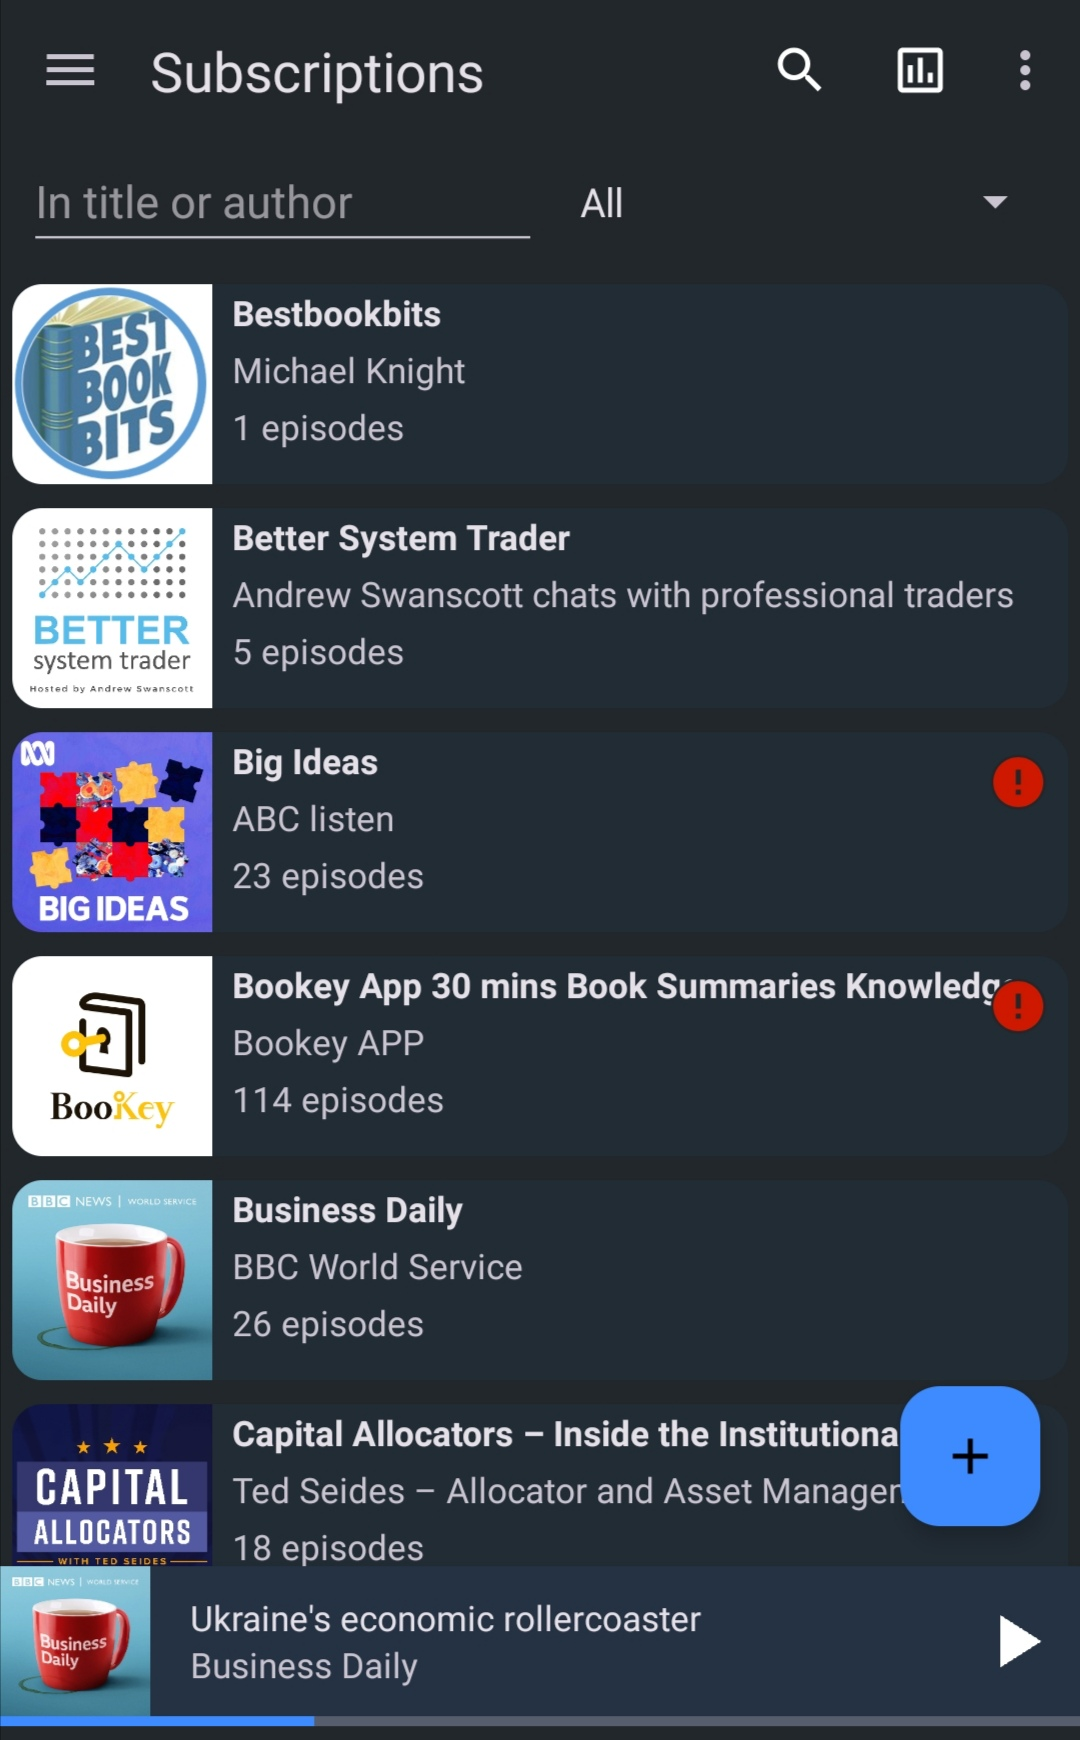
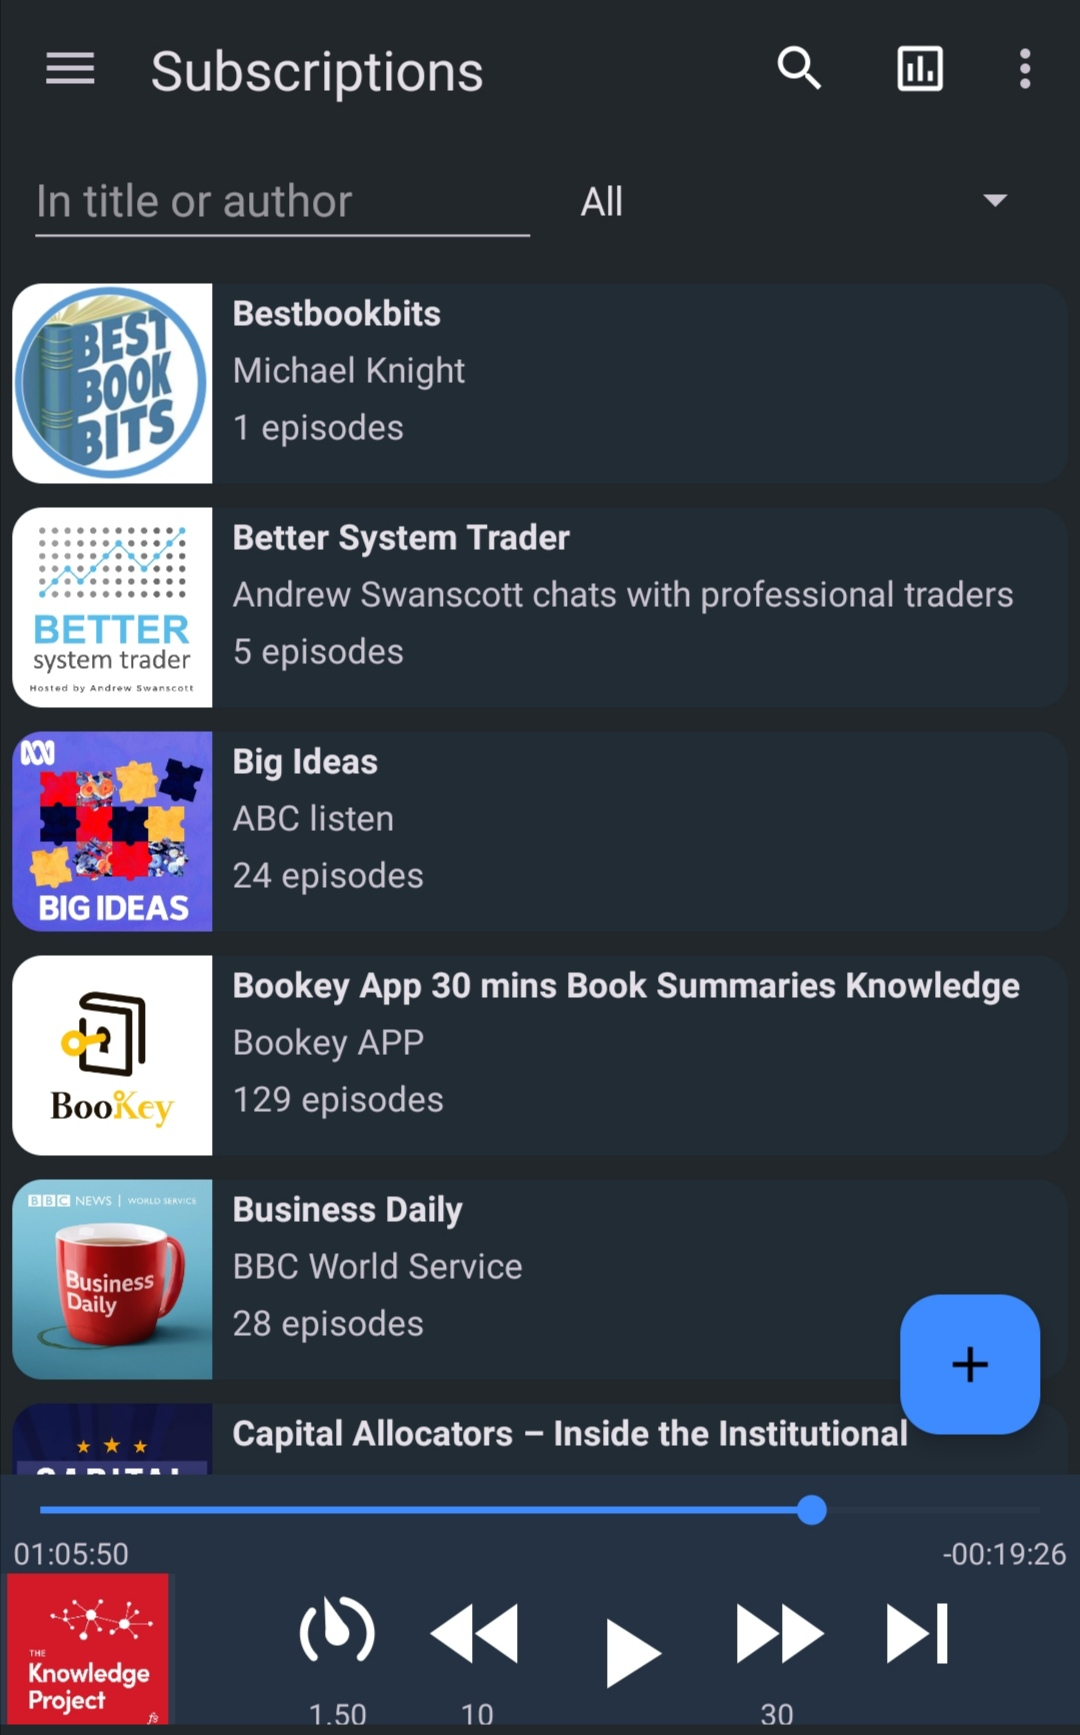
enhancement on tags and player controls

diff --git a/app/src/main/java/ac/mdiq/podcini/ui/adapter/NavListAdapter.kt b/app/src/main/java/ac/mdiq/podcini/ui/adapter/NavListAdapter.kt
@@ -179,11 +179,7 @@ class NavListAdapter(private val itemAccess: ItemAccess, context: Activity) :
                 val item = itemAccess.getItem(itemPos)
                 if (item != null) {
                     bindListItem(item, holder as FeedHolder)
-                    if (item.type == DrawerItem.Type.FEED) {
-                        bindFeedView(item as FeedDrawerItem, holder)
-                    } else {
-//                        bindTagView(item as TagDrawerItem, holder)
-                    }
+                    bindFeedView(item as FeedDrawerItem, holder)
                 }
                 holder.itemView.setOnCreateContextMenuListener(itemAccess)
             }
@@ -276,7 +272,7 @@ class NavListAdapter(private val itemAccess: ItemAccess, context: Activity) :
         }
     }
 
-    private fun bindListItem(item: DrawerItem, holder: FeedHolder) {
+    private fun bindListItem(item: FeedDrawerItem, holder: FeedHolder) {
         if (item.counter > 0) {
             holder.count.visibility = View.VISIBLE
             holder.count.text = NumberFormat.getInstance().format(item.counter.toLong())
@@ -348,7 +344,7 @@ class NavListAdapter(private val itemAccess: ItemAccess, context: Activity) :
     interface ItemAccess : OnCreateContextMenuListener {
         val count: Int
 
-        fun getItem(position: Int): DrawerItem?
+        fun getItem(position: Int): FeedDrawerItem?
 
         fun isSelected(position: Int): Boolean
 

diff --git a/app/src/main/java/ac/mdiq/podcini/ui/dialog/RenameItemDialog.kt b/app/src/main/java/ac/mdiq/podcini/ui/dialog/RenameItemDialog.kt
@@ -2,10 +2,9 @@ package ac.mdiq.podcini.ui.dialog
 
 import ac.mdiq.podcini.R
 import ac.mdiq.podcini.databinding.EditTextDialogBinding
-import ac.mdiq.podcini.storage.model.feed.Feed
-import ac.mdiq.podcini.storage.model.feed.FeedPreferences
 import ac.mdiq.podcini.storage.DBWriter
-import ac.mdiq.podcini.storage.NavDrawerData.*
+import ac.mdiq.podcini.storage.NavDrawerData.FeedDrawerItem
+import ac.mdiq.podcini.storage.model.feed.Feed
 import android.app.Activity
 import android.content.DialogInterface
 import android.util.Log
@@ -20,14 +19,14 @@ import java.lang.ref.WeakReference
 class RenameItemDialog {
     private val activityRef: WeakReference<Activity>
     private var feed: Feed? = null
-    private var drawerItem: DrawerItem? = null
+    private var drawerItem: FeedDrawerItem? = null
 
     constructor(activity: Activity, feed: Feed?) {
         this.activityRef = WeakReference(activity)
         this.feed = feed
     }
 
-    constructor(activity: Activity, drawerItem: DrawerItem?) {
+    constructor(activity: Activity, drawerItem: FeedDrawerItem?) {
         this.activityRef = WeakReference(activity)
         this.drawerItem = drawerItem
     }

diff --git a/app/src/main/java/ac/mdiq/podcini/storage/NavDrawerData.kt b/app/src/main/java/ac/mdiq/podcini/storage/NavDrawerData.kt
@@ -9,25 +9,13 @@ class NavDrawerData(@JvmField val items: List<FeedDrawerItem>,
                     val feedCounters: Map<Long, Int>,
                     val reclaimableSpace: Int
 ) {
-    abstract class DrawerItem(val type: Type, var id: Long) {
-        enum class Type {
-            FEED
-        }
+    class FeedDrawerItem(val feed: Feed, val id: Long, val counter: Int) {
+         var layer: Int = 0
 
-        var layer: Int = 0
-
-        abstract val title: String?
-
-        open val producer: String = ""
-
-        abstract val counter: Int
-    }
-
-    class FeedDrawerItem(val feed: Feed, id: Long, override val counter: Int) : DrawerItem(Type.FEED, id) {
-        override val title: String?
+         val title: String?
             get() = feed.title
 
-        override val producer: String
+         val producer: String
             get() = feed.author?:""
     }
 }

diff --git a/app/src/main/java/ac/mdiq/podcini/ui/adapter/SubscriptionsRecyclerAdapter.kt b/app/src/main/java/ac/mdiq/podcini/ui/adapter/SubscriptionsRecyclerAdapter.kt
@@ -169,7 +169,9 @@ open class SubscriptionsRecyclerAdapter(mainActivity: MainActivity) :
             producer.text = drawerItem.producer
             coverImage.contentDescription = drawerItem.title
             if (drawerItem.counter > 0) {
-                count.text = NumberFormat.getInstance().format(drawerItem.feed.items.size.toLong()) + " episodes"
+//                TODO: need to use more specific number
+                count.text = NumberFormat.getInstance().format(drawerItem.counter.toLong()) + " episodes"
+//                count.text = NumberFormat.getInstance().format(drawerItem.feed.items.size.toLong()) + " episodes"
                 count.visibility = View.VISIBLE
             } else {
                 count.visibility = View.GONE

diff --git a/app/src/main/java/ac/mdiq/podcini/ui/fragment/ExternalPlayerFragment.kt b/app/src/main/java/ac/mdiq/podcini/ui/fragment/ExternalPlayerFragment.kt
@@ -269,7 +269,6 @@ class ExternalPlayerFragment : Fragment(), SeekBar.OnSeekBarChangeListener {
         txtvFF.text = NumberFormat.getInstance().format(UserPreferences.fastForwardSecs.toLong())
         val media = controller?.getMedia()
         if (media != null) updatePlaybackSpeedButton(SpeedChangedEvent(PlaybackSpeedUtils.getCurrentPlaybackSpeed(media)))
-
     }
 
     @UnstableApi

diff --git a/README.md b/README.md
@@ -6,9 +6,11 @@ This is based on a fork from the popular project AntennaPod (<https://github.com
 
 Differing from the forked project, this project is purely Kotlin based, relies on the most recent dependencies, and most importantly has migrated the media player to androidx.media3, and added mechanism of AudioOffloadMode which is supposed to be kind to device battery.  Efficiencies are also sought on running the app.  App build is also upgraded to target Android 14.
 
-## Version 4.0
+## Version 4
 
 Some drastic changes are made in the project since version 4.0.  There is now a whole new interface of the Subscriptions page showing only the feeds with tags as filters, no longer having tags as folders in the page.  And the default page of the app is changed to the Subscriptions page.  Alongside, the Home and Echo pages are removed from the project.  Also, the project becomes mono-module, with only the app module.
+
+Version 4.1 brings a more convenient player control and tags enhancements, while also enables view binding for most views in the codebase.
 
 ## Screenshots
 
